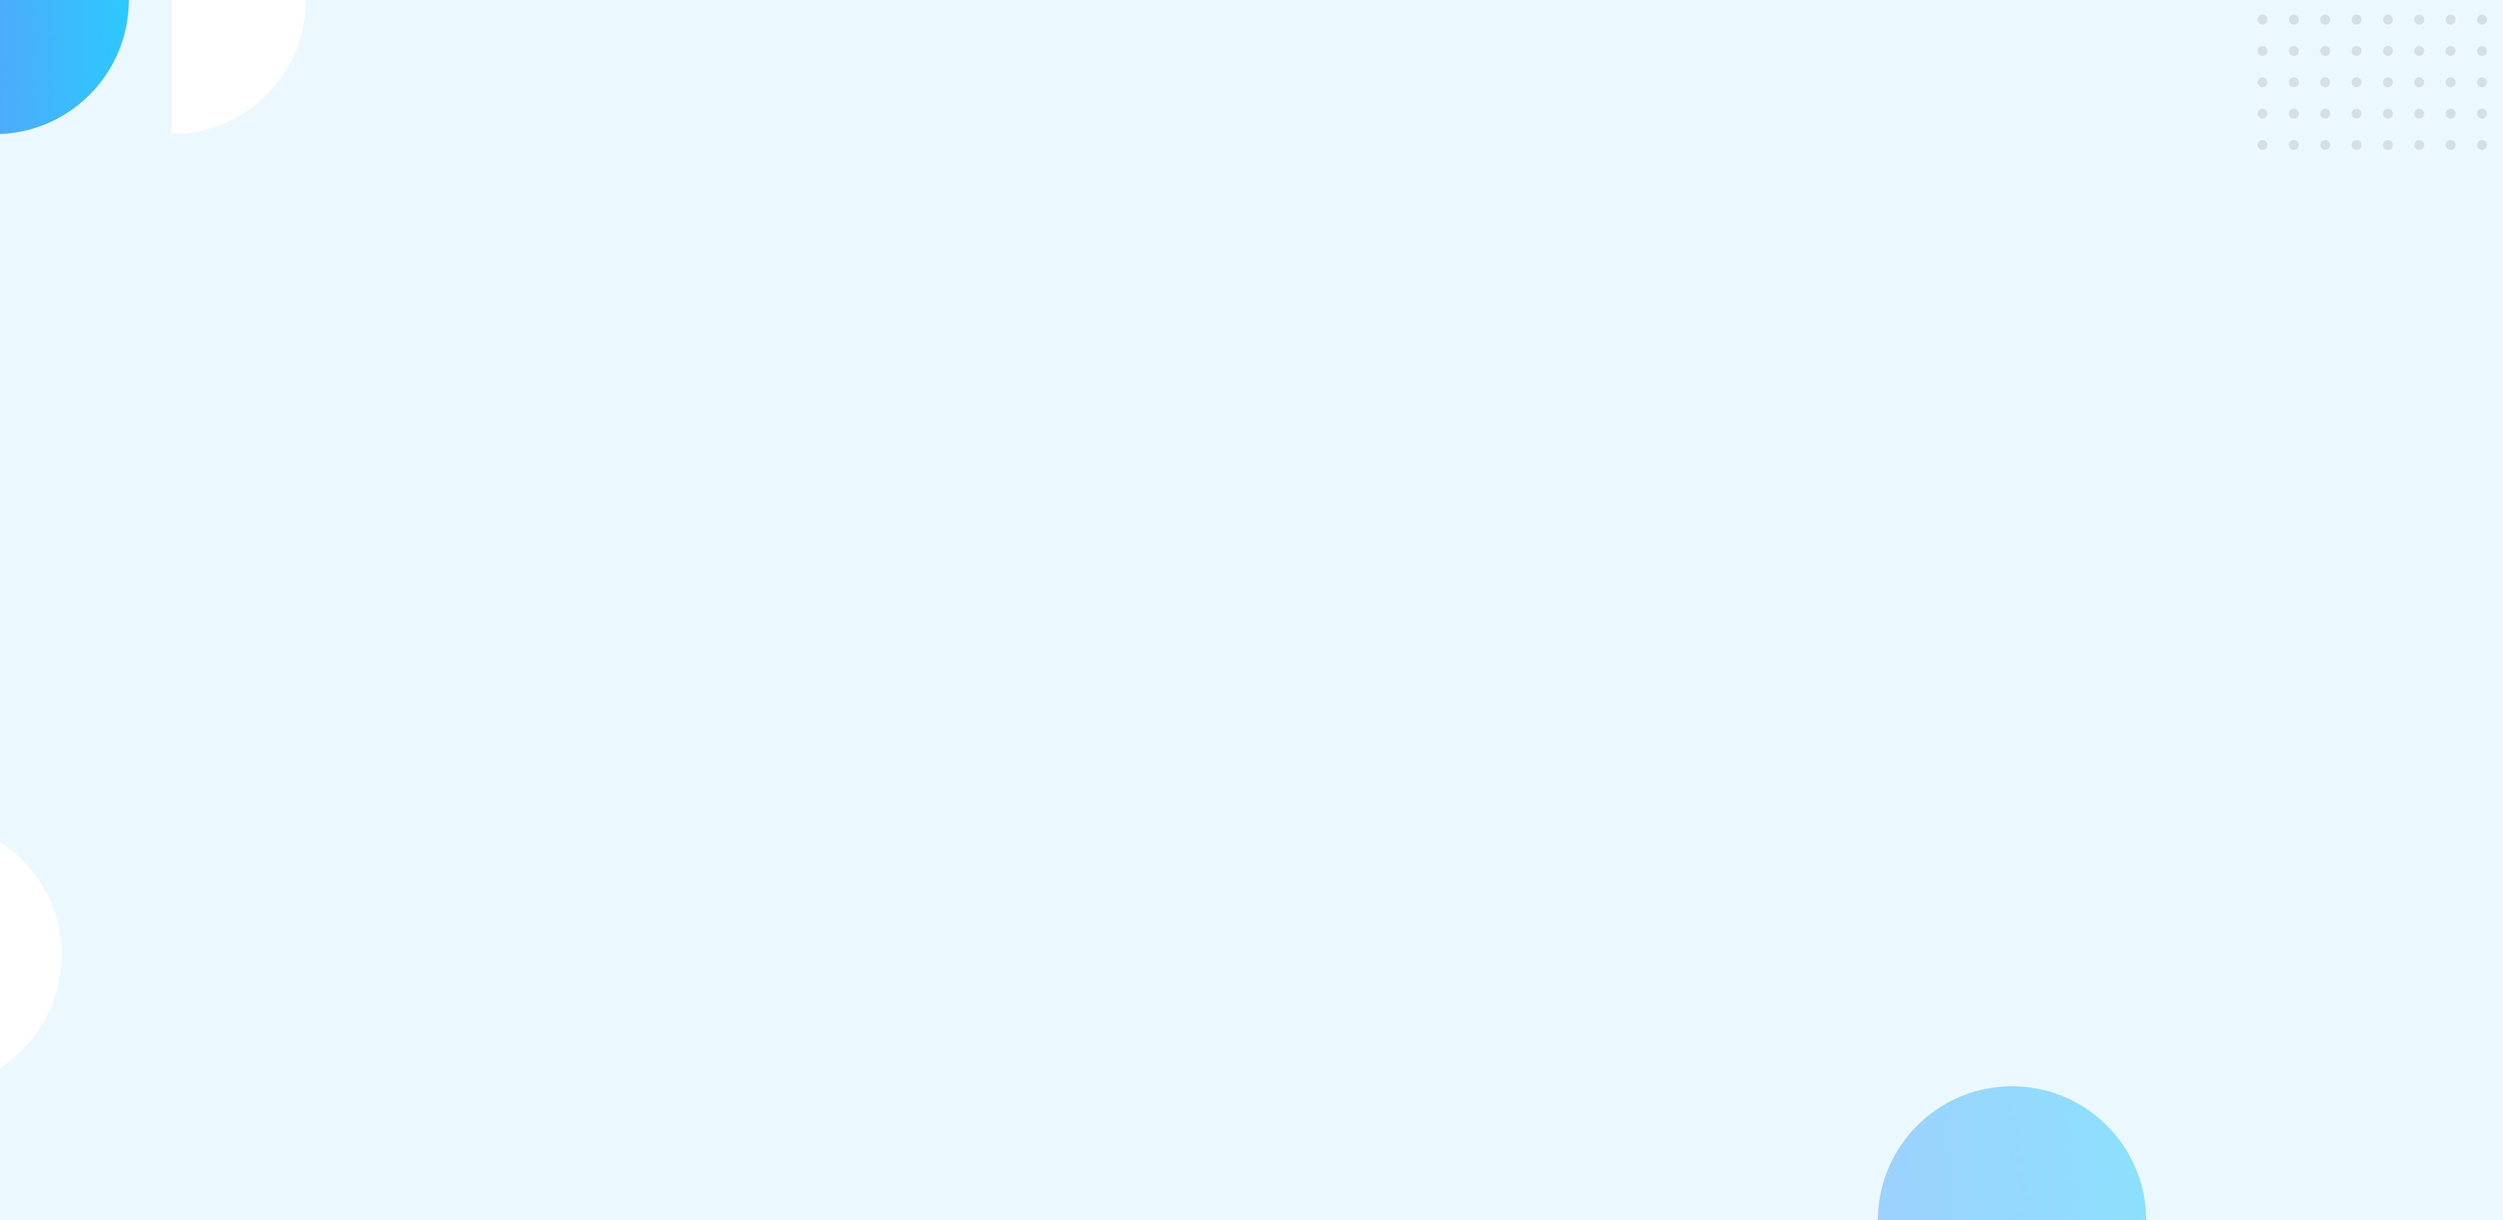
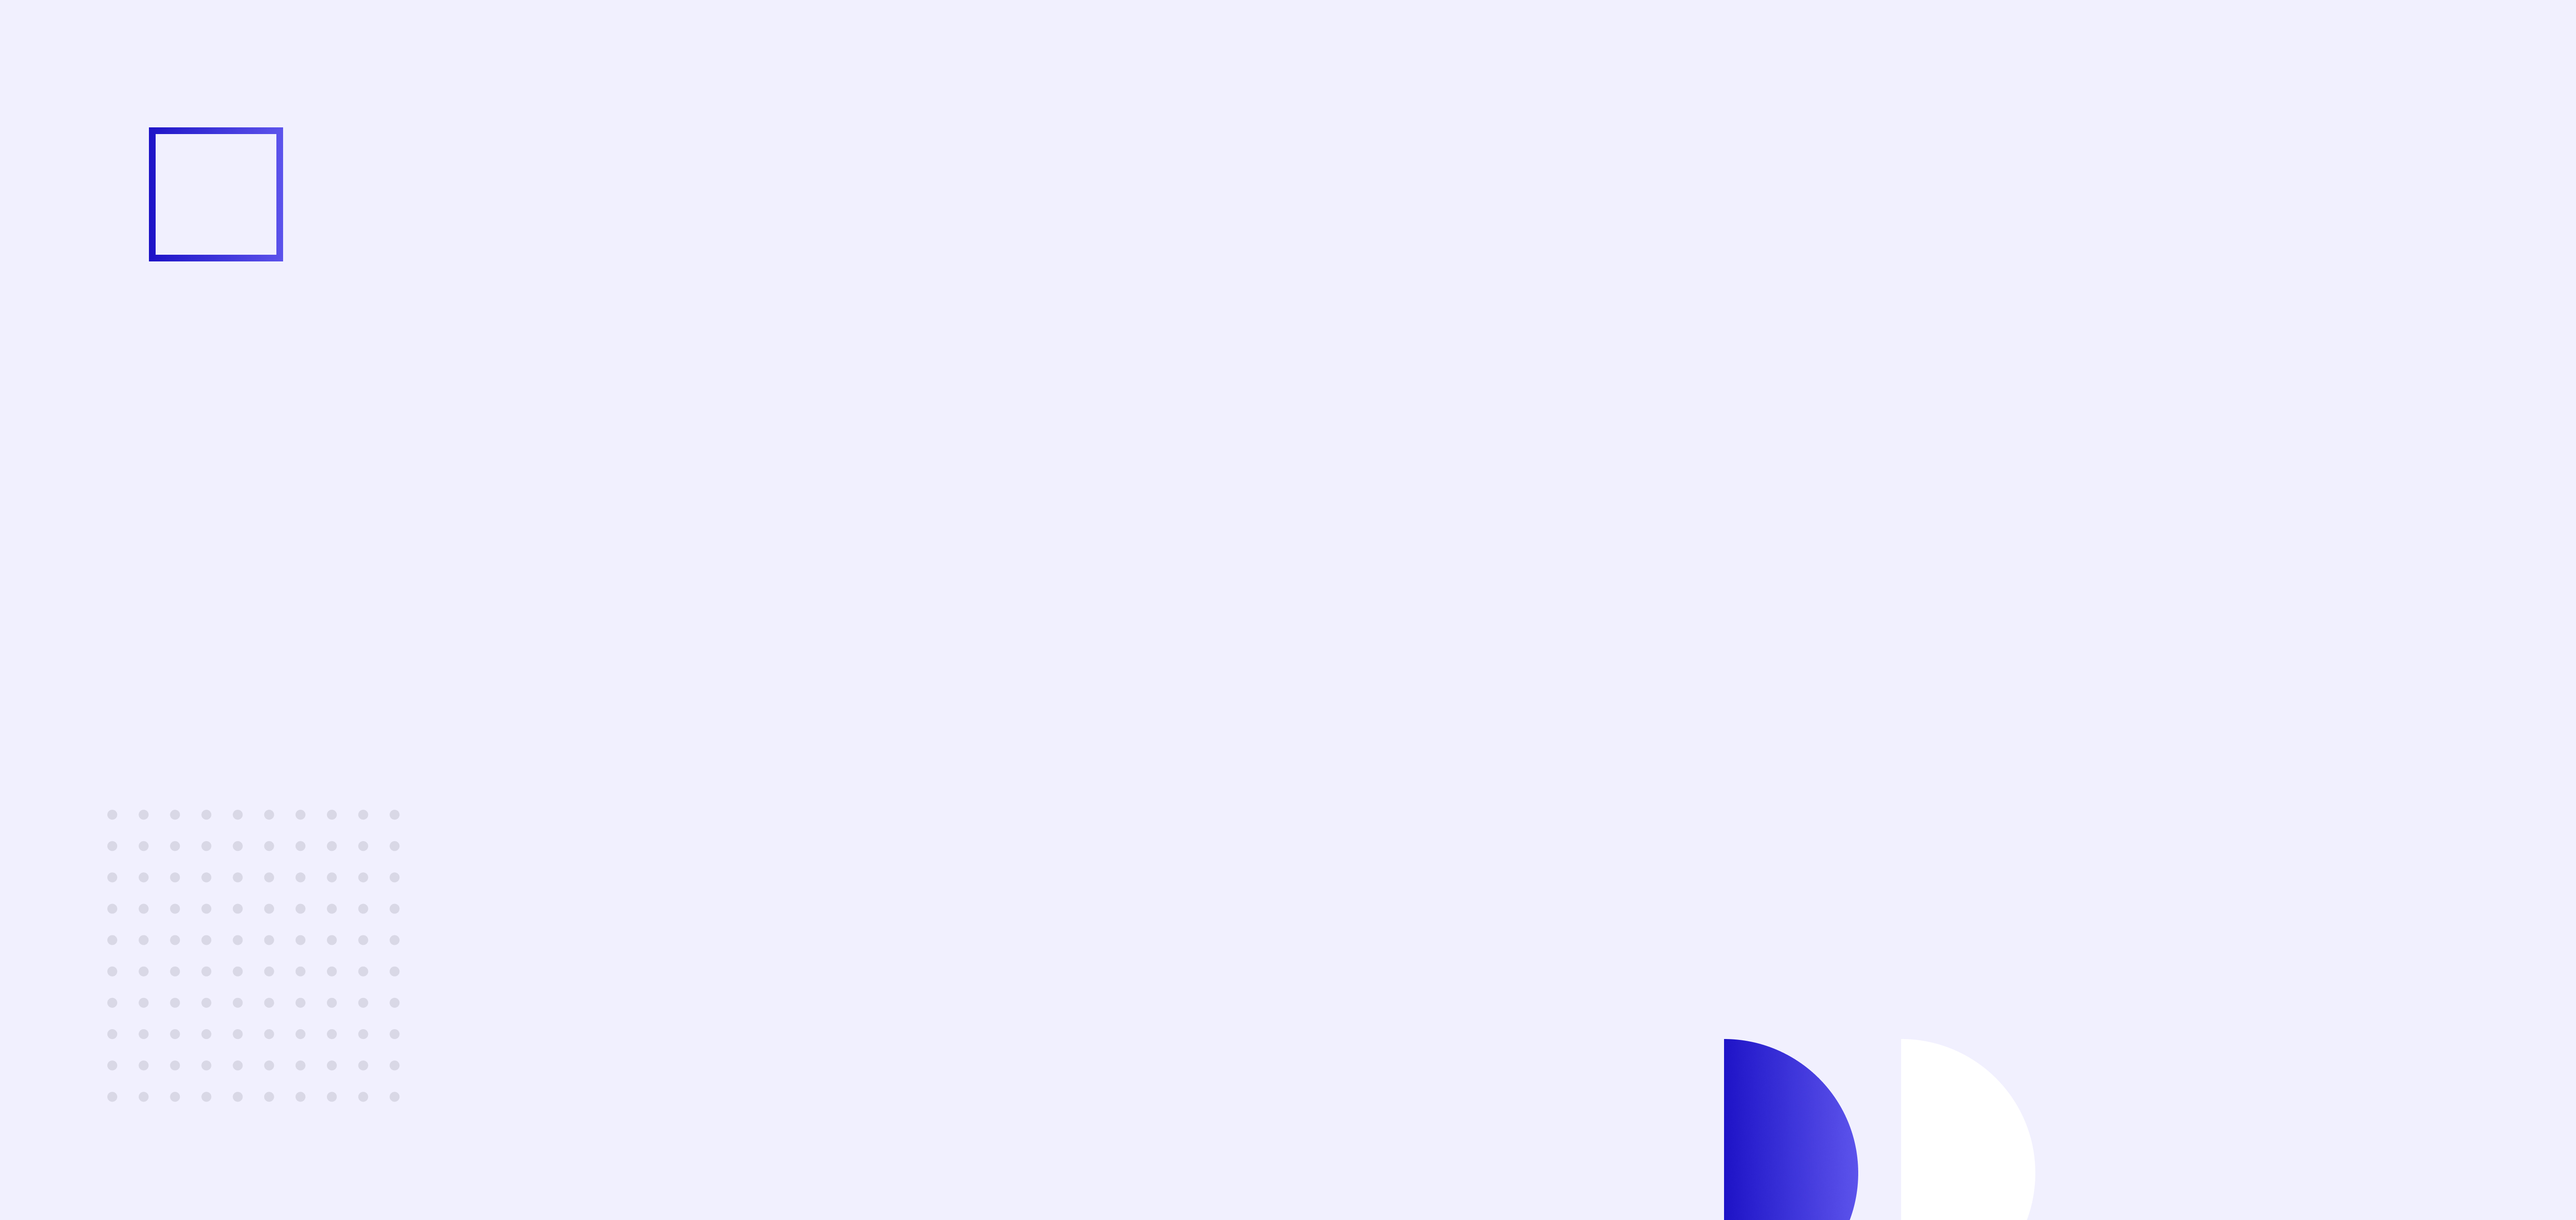
color and photo added

diff --git a/style.css b/style.css
@@ -19,14 +19,14 @@ body {
     font-size: 44px;
 }
 .colored-word {
-    color: dodgerblue;
+    color: royalblue;
 }
 p {
     font-size: 19px;
 }
 .button {
     padding: 15px 20px;
-    background-image: linear-gradient(to right, dodgerblue, deepskyblue);
+    background-image: linear-gradient(to right, royalblue, mediumslateblue);
     border-radius: 25px;
     font-size: 18px;
     text-decoration: none;
@@ -35,8 +35,8 @@ p {
     box-shadow: 0 2px 10px 2px rgba(0,0, 0,.2);
 }
 .half-width img {
-    width: 95%;
-    margin-top: 6%;
+    width: 90%;
+    margin-top: 3%;
 }
 .my-photo {
     width: 95%;
@@ -77,7 +77,7 @@ h2 {
 }
 .food-btn {
     padding: 6px 12px;
-    background-image: linear-gradient(to right, dodgerblue, deepskyblue);
+    background-image: linear-gradient(to right, royalblue, mediumslateblue);
     border-radius: 15px;
     font-size: 16px;
     text-decoration: none;
@@ -94,7 +94,10 @@ h2 {
     padding: 15px;
     border-radius: 15px;
     box-shadow: 0 2px 10px 2px rgba(0,0, 0,.2);
-    background-color: skyblue;
+    background-image: linear-gradient(to left, royalblue, mediumslateblue);
+}
+.form-box h2 {
+    color: white;
 }
 input {
     padding: 10px;
@@ -115,14 +118,15 @@ select {
     margin-bottom: 20px;
 }
 button {
-    background-image: linear-gradient(to right, deepskyblue, dodgerblue);
-    color: white;
+    background-color: white;
+    color: #210a3f;
     padding: 10px 20px;
     border: 0;
     outline: 0;
     border-radius: 15px;
     font-size: 18px;
     margin-bottom: 15px;
+    box-shadow: 0 2px 10px 2px #ffffff33;
 }
 .count {
     width: 70%;
@@ -136,9 +140,9 @@ button {
 }
 footer {
     width: 85%;
-    height: 125px;
-    padding: 25px;
-    background-color: #070720;
+    height: 130px;
+    padding: 20px;
+    background-color: #161631;
     text-align: center;
     margin-left: auto;
     margin-right: auto;
@@ -147,5 +151,5 @@ footer {
 }
 footer h3 {
     font-size: 25px;
-    color: skyblue;
+    color: royalblue;
 }

diff --git a/index.html b/index.html
@@ -20,7 +20,7 @@
             </div>
         </div>
         <div class="half-width">
-            <img src="images/woman.jpg" alt="Picture of Woman">
+            <img src="images/woman.png" alt="Picture of Woman">
         </div>
     </section>
     <section class="about-me flex-container">
@@ -84,7 +84,7 @@
                         <option>Fast Food Items</option>
                         <option>More Coming Soon!</option>
                     </select>
-                    <button type="submit">Apply Now!</button>
+                    <button type="submit">APPLY NOW!</button>
                 </form>
             </div>
         </div>
@@ -113,6 +113,7 @@
     <footer>
         <h3>● FOODY ●</h3>
         <p>Eat Healthy – Look Healthy – Feel Healthy</p>
+        <small>© Iftakher Hossen 2021</small>
     </footer>
 </body>
 </html>
